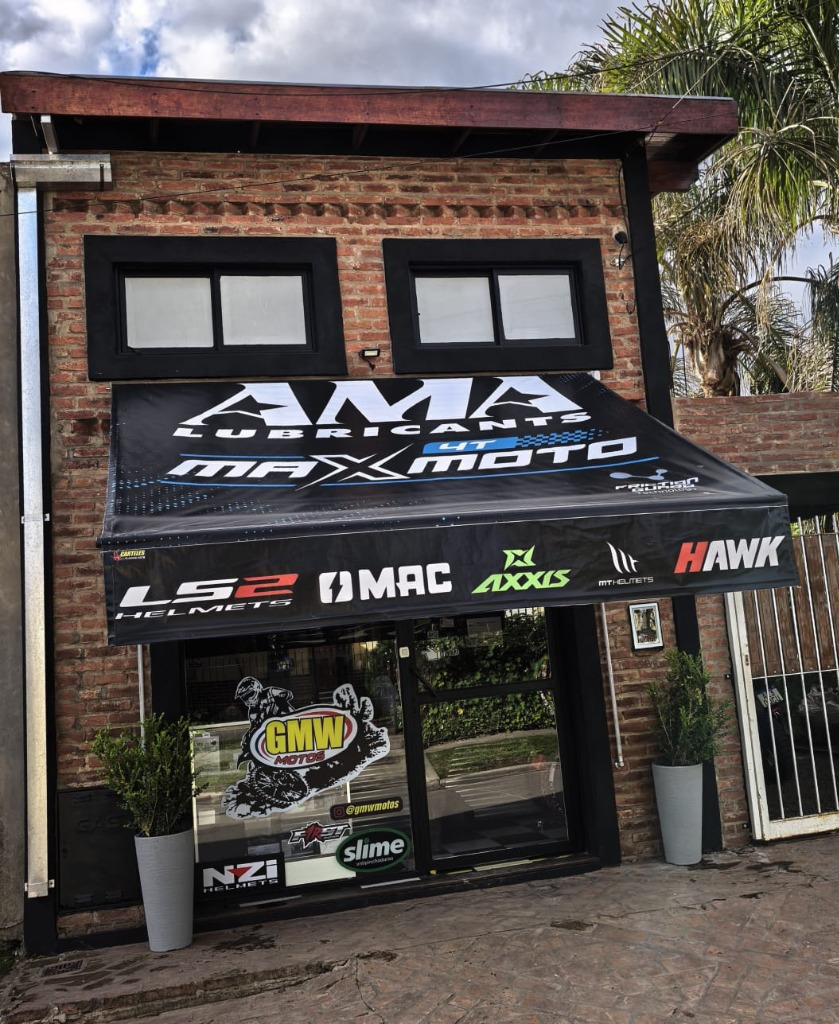
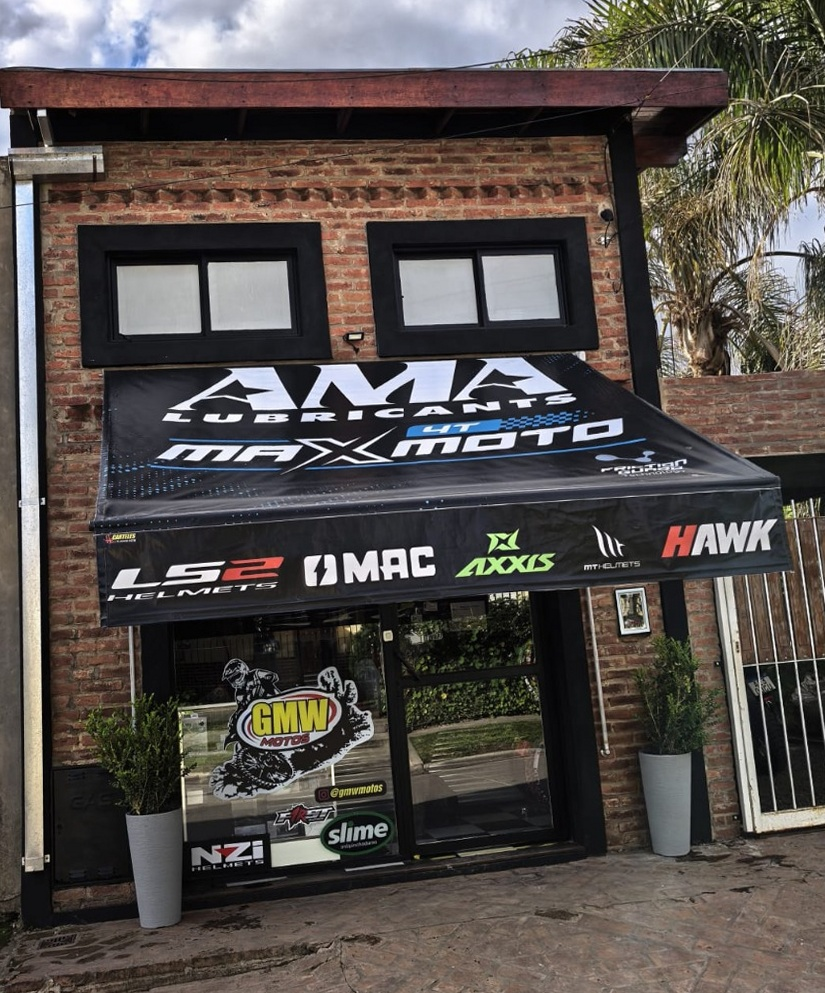
Enderezar y rectificar geometricamente la foto del local (lineas de techo y toldo 100% horizontales)

diff --git a/index.html b/index.html
@@ -40,7 +40,7 @@
     <link rel="stylesheet" href="https://cdnjs.cloudflare.com/ajax/libs/font-awesome/6.4.0/css/all.min.css">
     
     <!-- Custom CSS -->
-    <link rel="stylesheet" href="css/styles.css?v=12">
+    <link rel="stylesheet" href="css/styles.css?v=13">
 
     <!-- Schema.org Datos Estructurados (SEO Local para Google) -->
     <script type="application/ld+json">
@@ -133,7 +133,7 @@
             <!-- Card de Fachada Real del Local -->
             <div class="hero-image-card">
                 <div class="hero-image-badge"><i class="fas fa-store"></i> NUESTRO LOCAL EN MATHEU</div>
-                <img src="images/fachada-local.jpg" alt="Fachada comercial de Motos GMW en Matheu" class="hero-store-img">
+                <img src="images/fachada-local.jpg?v=2" alt="Fachada comercial de Motos GMW en Matheu" class="hero-store-img">
             </div>
         </div>
     </header>

diff --git a/productos.html b/productos.html
@@ -34,7 +34,7 @@
     <link rel="stylesheet" href="https://cdnjs.cloudflare.com/ajax/libs/font-awesome/6.4.0/css/all.min.css">
     
     <!-- Custom CSS -->
-    <link rel="stylesheet" href="css/styles.css?v=12">
+    <link rel="stylesheet" href="css/styles.css?v=13">
     <style>
         /* Estilos de Combos / Kits */
         .products-header {
